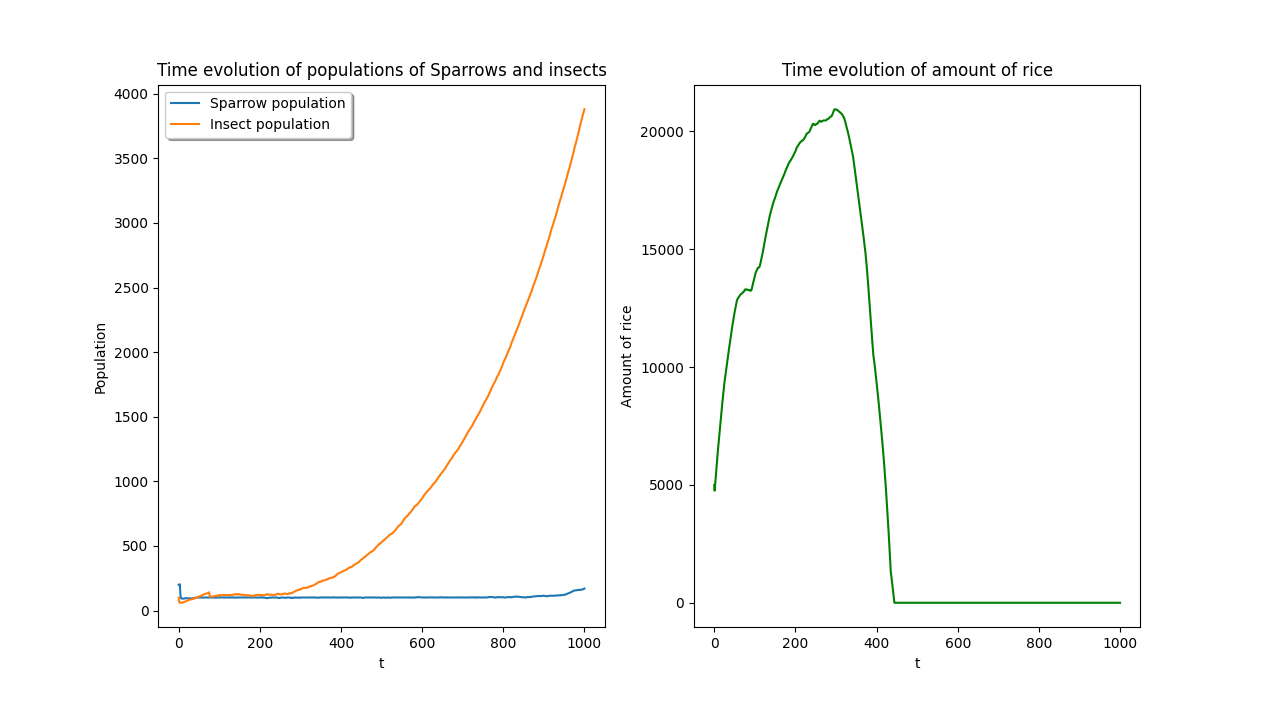
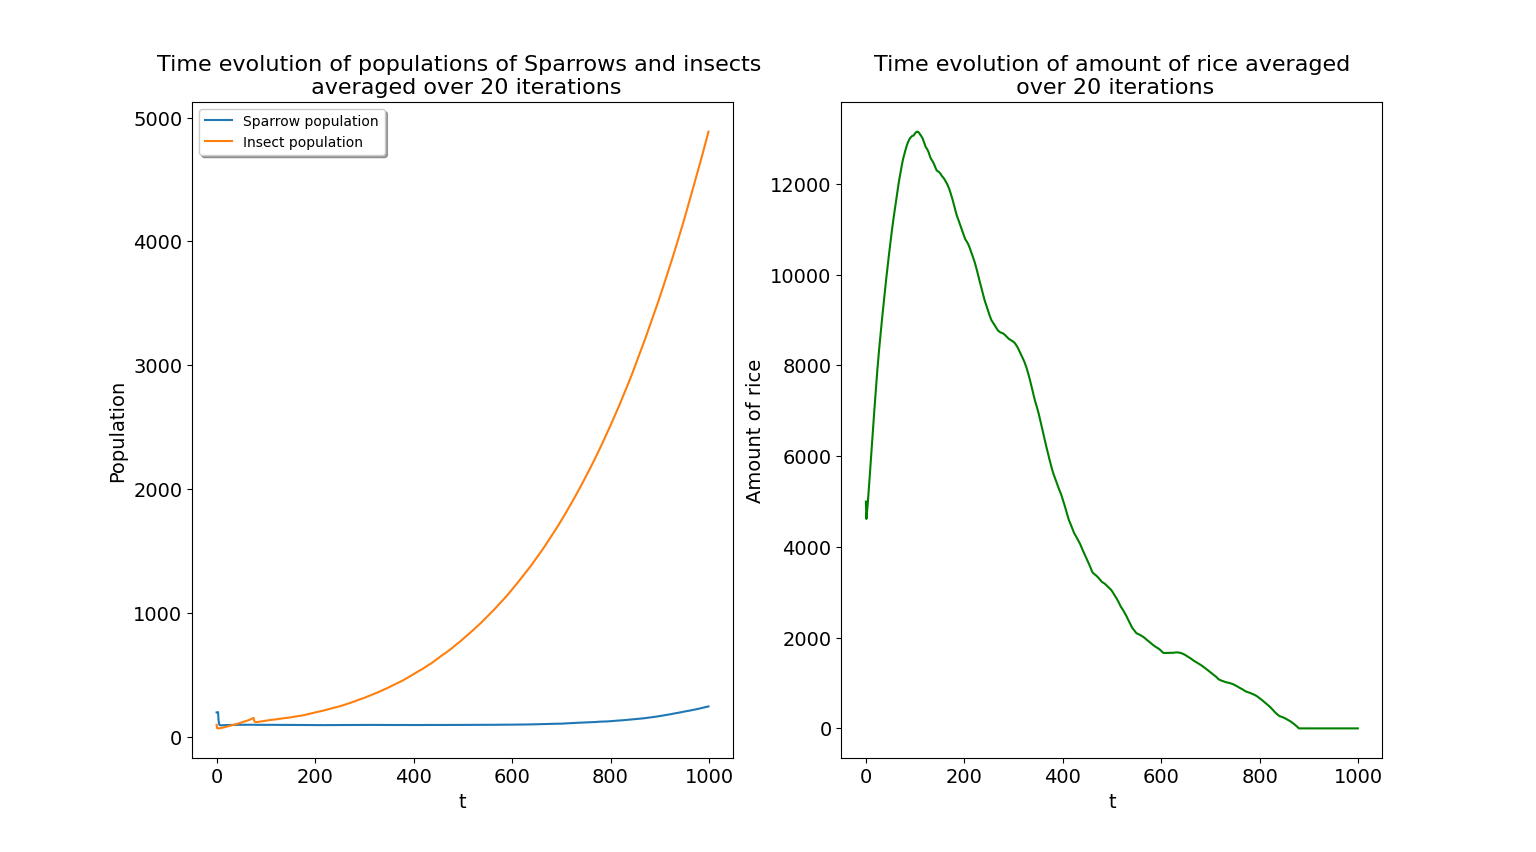
addition

diff --git a/python_proj/rice_all_plot.py b/python_proj/rice_all_plot.py
@@ -1,0 +1,24 @@
+import numpy as np
+import matplotlib.pyplot as plt
+
+timesteps = 1000
+nIterations = 20
+time = np.reshape(np.arange(timesteps), [1, timesteps])
+
+rice_no_kill = np.load('rice_pop_SK=0.0IK=0.0.npy')
+rice_kill_spa = np.load('rice_pop_SK=0.02IK=0.0.npy')
+rice_kill_in = np.load('rice_pop_SK=0.0IK=0.03.npy')
+rice_kill_both = np.load('rice_pop_SK=0.03IK=0.03.npy')
+
+plt.plot(time[0], rice_no_kill[0])
+plt.plot(time[0], rice_kill_spa[0])
+plt.plot(time[0], rice_kill_in[0])
+plt.plot(time[0], rice_kill_both[0])
+
+plt.xlabel('t', fontsize=14)
+plt.ylabel('Amount of rice', fontsize=14)
+plt.tick_params(labelsize=14)
+plt.legend(['No intervention', '2% Killing rate of sparrows', '3% Killing rate of insects', '3% Killing rate of both populations'])
+
+plt.title(f'Time evolution of amount of rice for different strategies\n averaged over {nIterations} iterations', fontsize=16)
+plt.show()

diff --git a/python_proj/ecosystem_simulation.py b/python_proj/ecosystem_simulation.py
@@ -8,8 +8,8 @@ from tqdm import trange
 
 def run_simulation():
     # Eco system parameters
-    kill_rate_sparrows = 0.02
-    kill_rate_insects = 0.0
+    kill_rate_sparrows = 0.03
+    kill_rate_insects = 0.03
 
     sparrow_growth_rate = 0.025
     sparrow_starvation_threshold = 3
@@ -46,7 +46,7 @@ def run_simulation():
         insects = [Insects(lattice_size, insect_starvation_threshold, insect_age_limit) for _ in range(nInsects)]
         rice = Rice(lattice_size, start_rice, rice_growth_per_day)
 
-        for t in range(1, timesteps):
+        for t in trange(1, timesteps):
             rice_field = rice.fields
             rice_coords_array = rice_field[:, 0:2]
 
